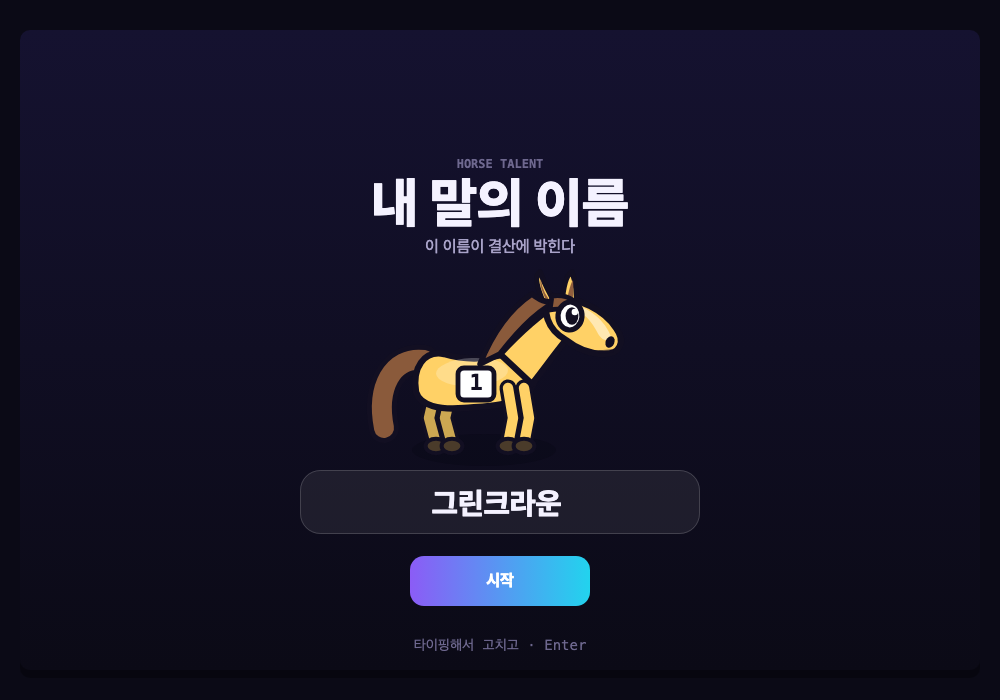
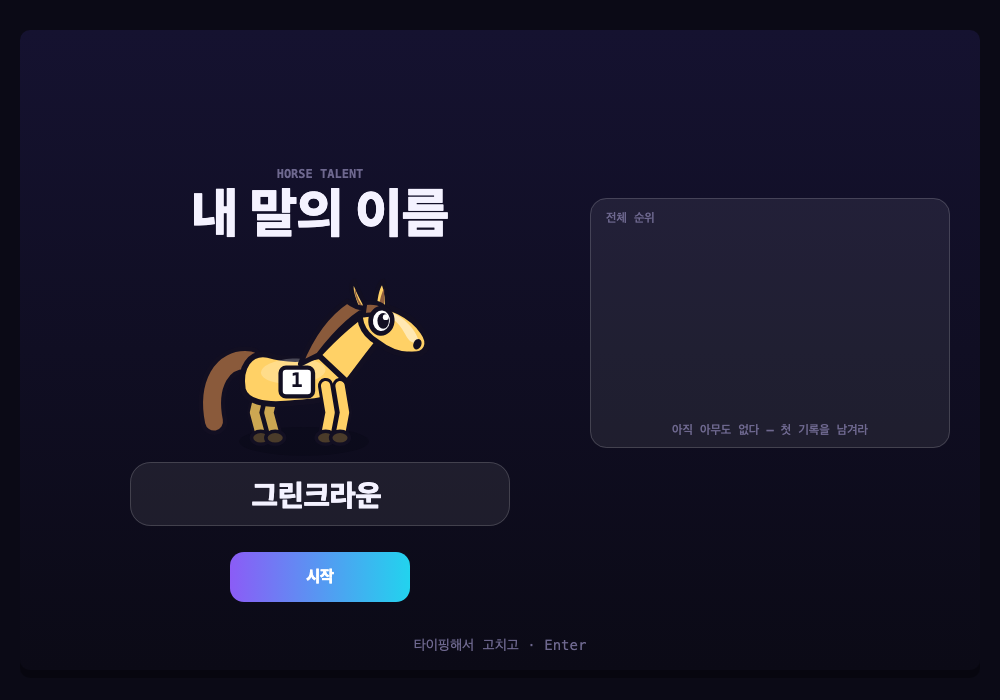
이름 화면 — 부제를 빼고 그 자리에 순위를 넣었다
"이 이름이 결산에 박힌다"는 아래 안내줄과 겹치는 말이었다.
그 자리를 순위가 쓰면 **시작 전에 무엇을 넘어야 하는지** 보인다.
결산처럼 두 단으로 — 왼쪽에 이름, 오른쪽에 순위.

랭킹 그리기는 좌표를 받게 빼서 두 화면이 같이 쓴다.

## 곁가지 — 서버에 못 닿았는데 "아직 아무도 없다"고 말했다

빈 목록과 못 받은 것을 **화면에서** 안 갈랐다. 전역에는 기록이 있을 수 있으니
거짓말이다 — `서버에 못 닿았다` 로 나눴다.
코드에서는 `null`/`[]` 로 갈라놓고 **문구에서 다시 뭉친** 셈이었다.
시작 전에는 `불러오는 중`, 판 끝에는 `기록 올리는 중` 으로도 갈랐다 —
올릴 것이 없는데 "올리는 중"은 틀린 말이다.

서버를 막고(`--host-resolver-rules`) 두 화면 다 확인했다.
배치 검사 3개 추가, 옛 좌표에서 깨지는 것도 확인했다. 검사 185개.

diff --git a/src/scenes/game.ts b/src/scenes/game.ts
@@ -25,7 +25,7 @@ import { C, F, MINE_COAT, RIVAL_COATS, font, mono, withAlpha, card, accentGrad }
 import { drawHorse, HORSE_BOX, type Mood } from "../ui/horse";
 import { rng } from "../kits/rng";
 import {
-  loadRuns, saveRun, submitRun, ranked, rankOf, isBest, SHOWN,
+  loadRuns, saveRun, submitRun, fetchBoard, ranked, rankOf, isBest, SHOWN,
   type Run, type Board,
 } from "../systems/records";
 
@@ -81,9 +81,19 @@ export const L = {
   slipTop: 400,
   slipH: 148,
   buyTop: 554,        // 걸고 출발 / 안 걸고 출발 — 나란히
-  /** 이름 화면 — 말 그림. 부제(222)와 이름 카드(440) 사이에 들어가야 한다 */
-  nameHorseY: 414,
-  nameHorseS: 2.0,
+  /**
+   * 이름 화면 — **두 단.** 왼쪽에 이름, 오른쪽에 순위.
+   * 부제("이 이름이 결산에 박힌다")를 빼고 그 자리를 순위가 쓴다.
+   */
+  nameColX: 300,
+  nameCardW: 380,
+  nameCardY: 432,
+  nameBtnY: 522,
+  nameRankX: 570,
+  nameRankTop: 168,
+  /** 말 그림. 제목(202)과 이름 카드 사이에 들어가야 한다 */
+  nameHorseY: 406,
+  nameHorseS: 1.8,
   /**
    * 트랙 — 결승선과 달려나갈 수 있는 오른쪽 끝.
    * `trackMaxX` 는 **착순 배지(폭 52)까지 화면 안에 들어오는** 지점이다.
@@ -202,6 +212,11 @@ export class Game {
     // **이름도 시드에서 나온다.** `Math.random()` 이었는데, 그러면 같은 시드로
     // 두 번 띄워도 다른 말이 나온다 — 증거 화면이 매번 달라져 재현이 안 됐다(HT-008).
     this.horse = newHorse(randomName(rng(seed ^ 0x5EED)));
+    // 이름 화면에도 순위를 띄운다 — **시작 전에 무엇을 넘어야 하는지** 보여준다.
+    // 못 받으면 로컬로 떨어진다. 판이 끝나면 `finishSession` 이 다시 채운다.
+    this.runs = loadRuns();
+    this.sending = true;
+    fetchBoard().then((b) => { this.board = b; }).finally(() => { this.sending = false; });
   }
 
   // ── 진행 ────────────────────────────────────────────────────────────────
@@ -498,21 +513,29 @@ export class Game {
     else if (this.phase === "recap") this.drawRecap(ctx);
   }
 
+  /**
+   * 이름 화면. **두 단이다** — 왼쪽에 이름을 짓고 오른쪽에 순위를 본다.
+   *
+   * "이 이름이 결산에 박힌다" 부제는 뺐다(사용자 요청). 아래 안내줄이 이미
+   * 무엇을 하는 화면인지 말하고, 그 자리를 순위가 쓴다 —
+   * **시작 전에 무엇을 넘어야 하는지 보이는 편이 낫다.**
+   */
   private drawName(ctx: CanvasRenderingContext2D) {
+    const cx = L.nameColX;
     ctx.textAlign = "center"; ctx.textBaseline = "alphabetic";
     ctx.font = mono(F.xs, 600); ctx.fillStyle = C.textFaint;
-    ctx.fillText("HORSE TALENT", W / 2, 138);
+    ctx.fillText("HORSE TALENT", cx, 148);
     ctx.font = font(F.hero, 800); ctx.fillStyle = C.text;
-    ctx.fillText("내 말의 이름", W / 2, 192);
-    ctx.font = font(F.md, 500); ctx.fillStyle = C.textMuted;
-    ctx.fillText("이 이름이 결산에 박힌다", W / 2, 222);
+    ctx.fillText("내 말의 이름", cx, 202);
     // **배율과 발 위치를 검사가 계산한다** — 눈으로 어림했더니 귀가 부제를 뚫었다.
-    drawHorse(ctx, W / 2 - 16, L.nameHorseY, L.nameHorseS, MINE_COAT, { mood: "idle", num: 1 });
-    card(ctx, W / 2 - 200, 440, 400, 64, { r: 20, fill: 0.07, border: 0.16 });
-    ctx.font = font(F.xxl, 800); ctx.fillStyle = C.text;
+    drawHorse(ctx, cx - 16, L.nameHorseY, L.nameHorseS, MINE_COAT, { mood: "idle", num: 1 });
+    card(ctx, cx - L.nameCardW / 2, L.nameCardY, L.nameCardW, 64, { r: 20, fill: 0.07, border: 0.16 });
+    ctx.textAlign = "center"; ctx.font = font(F.xxl, 800); ctx.fillStyle = C.text;
     const caret = Math.floor(this.t * 2) % 2 ? "|" : " ";
-    ctx.fillText(this.horse.name + caret, W / 2, 484);
-    this.btn(ctx, W / 2 - 90, 526, 180, 50, "시작", "startGame:", { primary: true });
+    ctx.fillText(this.horse.name + caret, cx, L.nameCardY + 44);
+    this.btn(ctx, cx - 90, L.nameBtnY, 180, 50, "시작", "startGame:", { primary: true });
+
+    this.drawRanking(ctx, L.nameRankX, L.nameRankTop);
     this.hint(ctx, "타이핑해서 고치고 · Enter");
   }
 
@@ -984,7 +1007,7 @@ export class Game {
       ctx.fillText(v, L.recapRowValX, y);
     });
 
-    this.drawRanking(ctx);
+    this.drawRanking(ctx, L.rankX, L.rankTop);
     this.hint(ctx, this.board
       ? "클릭 / Space 로 새 판 · 순위는 모두가 함께 본다"
       : "클릭 / Space 로 새 판 · 서버에 못 닿아 이 브라우저 기록만 보인다");
@@ -995,16 +1018,17 @@ export class Game {
    * 셋을 구별해서 말한다 — 보내는 중 / 전역 / 이 브라우저.
    * 뭉치면 로딩 중에 "기록 없음"이라고 거짓말하게 된다.
    */
-  private drawRanking(ctx: CanvasRenderingContext2D) {
-    const x = L.rankX, top = L.rankTop;
+  private drawRanking(ctx: CanvasRenderingContext2D, x: number, top: number) {
     card(ctx, x, top, L.rankW, L.rankH, { r: 16, fill: 0.07, border: 0.16 });
     ctx.textAlign = "left"; ctx.textBaseline = "alphabetic";
     ctx.font = mono(F.xs, 600); ctx.fillStyle = C.textFaint;
 
     const global = !!this.board;
-    ctx.fillText(this.sending ? "기록 올리는 중" : global ? "전체 순위" : "내 기록", x + 16, top + 24);
-
     const mine = this.run;
+    // 시작 전에는 올릴 것이 없다 — "불러오는 중" 과 "올리는 중" 은 다른 말이다
+    const busy = this.sending ? (mine ? "기록 올리는 중" : "불러오는 중") : null;
+    ctx.fillText(busy ?? (global ? "전체 순위" : "내 기록"), x + 16, top + 24);
+
     const list = global ? this.board!.runs.slice(0, SHOWN) : ranked(this.runs).slice(0, SHOWN);
     // 오른쪽 꼬리표 — 최고 기록 갱신이 첫 판보다 먼저다
     ctx.textAlign = "right";
@@ -1044,8 +1068,11 @@ export class Game {
     const rank = global ? this.board!.rank : (mine ? rankOf(this.runs, mine) : 0);
     const total = global ? this.board!.total : this.runs.length;
     ctx.textAlign = "center"; ctx.font = mono(F.xs, 600); ctx.fillStyle = C.textFaint;
+    // **빈 것과 못 받은 것을 다르게 말한다.** 서버에 못 닿았는데 "아직 아무도 없다"고
+    // 하면 거짓말이다 — 전역에는 기록이 있을 수 있다.
     const foot = this.sending ? "…"
-      : !mine ? ""
+      : !list.length ? (global ? "아직 아무도 없다 — 첫 기록을 남겨라" : "서버에 못 닿았다")
+      : !mine ? `${total}판${global ? "" : " · 이 브라우저"}`
       : rank > SHOWN ? `이번 판 ${rank}등 / ${total}판`
       : `${total}판 중${global ? "" : " · 이 브라우저"}`;
     if (foot) ctx.fillText(foot, x + L.rankW / 2, top + L.rankH - 14);

diff --git a/src/layout.test.ts b/src/layout.test.ts
@@ -224,13 +224,35 @@ describe("말 그림이 제자리에 든다", () => {
     left: x + HORSE_BOX.left * s, right: x + HORSE_BOX.right * s,
   });
 
-  it("이름 화면 — 부제와 이름 카드 사이에 든다", () => {
-    const h = box(W / 2 - 16, L.nameHorseY, L.nameHorseS);
-    const sub = textBand(222, F.md);          // "이 이름이 결산에 박힌다"
-    expect(h.top, "귀가 부제를 뚫는다").toBeGreaterThan(sub.bottom + 6);
-    expect(h.bottom, "발이 이름 카드에 닿는다").toBeLessThan(440 - 6);
-    expect(h.left).toBeGreaterThan(0);
-    expect(h.right).toBeLessThan(W);
+  /**
+   * 이름 화면은 **두 단**이다 — 왼쪽에 이름, 오른쪽에 순위.
+   * 부제("이 이름이 결산에 박힌다")를 빼고 그 자리를 순위가 쓴다(사용자 요청).
+   */
+  it("이름 화면 — 말이 제목과 이름 카드 사이에 들고 순위를 안 침범한다", () => {
+    const h = box(L.nameColX - 16, L.nameHorseY, L.nameHorseS);
+    const title = textBand(202, F.hero);      // "내 말의 이름"
+    expect(h.top, "귀가 제목을 뚫는다").toBeGreaterThan(title.bottom + 6);
+    expect(h.bottom, "발이 이름 카드에 닿는다").toBeLessThan(L.nameCardY - 6);
+    expect(h.left, "말이 화면 왼쪽 밖").toBeGreaterThan(0);
+    expect(h.right, "말이 순위 카드를 덮는다").toBeLessThan(L.nameRankX);
+  });
+
+  it("이름 화면 — 왼쪽 단과 순위 카드가 안 겹치고 화면 안에 든다", () => {
+    expect(L.nameColX + L.nameCardW / 2, "이름 카드가 순위를 덮는다")
+      .toBeLessThan(L.nameRankX - 12);
+    expect(L.nameColX - L.nameCardW / 2, "이름 카드가 화면 왼쪽 밖").toBeGreaterThan(0);
+    expect(L.nameRankX + L.rankW, "순위 카드가 화면 오른쪽 밖").toBeLessThanOrEqual(W - 20);
+    expect(L.nameRankTop + L.rankH, "순위 카드가 안내줄을 침범")
+      .toBeLessThan(textBand(L.hint, F.sm).top);
+  });
+
+  it("이름 화면 — 이름 카드·시작 버튼·안내줄이 세로로 안 겹친다", () => {
+    expect(checkStack([
+      { name: "제목", ...textBand(202, F.hero) },
+      { name: "이름 카드", top: L.nameCardY, bottom: L.nameCardY + 64 },
+      { name: "시작 버튼", top: L.nameBtnY, bottom: L.nameBtnY + 50 },
+      { name: "안내", ...textBand(L.hint, F.sm) },
+    ], H)).toEqual([]);
   });
 
   it("마방 — 내 말 카드 안에 여백을 두고 든다", () => {

diff --git a/evidence/REPORT.md b/evidence/REPORT.md
@@ -4,30 +4,27 @@
 
 | | 단계 | 명령 | 시간 |
 |---|---|---|---|
-| ✓ | 검사 | `npm test` | 44.6s |
-| ✓ | 빌드 | `npm run build` | 1.6s |
-| ✓ | 빌드 격리 | `node scripts/isolated.mjs` | 1.5s |
-| ✓ | 실측 | `npx vite-node src/evidence/measure.ts` | 68.0s |
-| ✓ | 라이선스 | `node scripts/licenses.mjs` | 0.0s |
-| ✓ | AI 사용 기록 | `node scripts/ai-use-log.mjs` | 0.0s |
-| ✓ | 화면 | `node scripts/shots.mjs` | 21.3s |
+| ✓ | 검사 | `npm test` | 36.8s |
+| ✓ | 빌드 | `npm run build` | 1.4s |
+| ✓ | 빌드 격리 | `node scripts/isolated.mjs` | 1.4s |
+| ✓ | 실측 | `npx vite-node src/evidence/measure.ts` | 53.0s |
+| ✓ | 라이선스 | `node scripts/licenses.mjs` | 0.1s |
+| ✓ | AI 사용 기록 | `node scripts/ai-use-log.mjs` | 0.1s |
+| ✓ | 화면 | `node scripts/shots.mjs` | 22.8s |
 
 
 ## 어느 소스에서 나왔나
 
 | | |
 |---|---|
-| 커밋 | `e49b4c7` |
+| 커밋 | `eef4543` |
 | 브랜치 | main |
-| 소스 트리 | **깨끗하지 않다 — 커밋 안 된 변경 6건**
+| 소스 트리 | **깨끗하지 않다 — 커밋 안 된 변경 3건**
 
 ```
-M docs/DECISIONS.md
- M docs/GAME_SPEC.md
- M src/records.test.ts
+M evidence/screens/1-name.png
+ M src/layout.test.ts
  M src/scenes/game.ts
- M src/systems/records.ts
-?? worker/
 ``` |
 | node | v24.18.0 |
 
@@ -35,7 +32,7 @@ M docs/DECISIONS.md
 
 | 파일 | SHA-256 (앞 16) | 크기 |
 |---|---|---|
-| `index-yxvXVscy.js` | `0b9b9842d0e2ce29` | 42.1 kB |
+| `index-KJjzTzcQ.js` | `80061f57843443d1` | 42.6 kB |
 
 ## 같이 있는 것
 
@@ -48,12 +45,12 @@ M docs/DECISIONS.md
 ### 검사
 
 ```
- ✓ src/balance.test.ts  (18 tests) 37818ms
+ ✓ src/balance.test.ts  (18 tests) 31065ms
 
  Test Files  9 passed (9)
-      Tests  183 passed (183)
-   Start at  15:05:16
-   Duration  43.97s (transform 648ms, setup 0ms, collect 21.20s, tests 74.15s, environment 1ms, prepare 904ms)
+      Tests  185 passed (185)
+   Start at  15:32:22
+   Duration  36.35s (transform 719ms, setup 0ms, collect 16.99s, tests 60.95s, environment 2ms, prepare 1.18s)
 ```
 
 ### 빌드
@@ -62,9 +59,9 @@ M docs/DECISIONS.md
 ✓ 13 modules transformed.
 rendering chunks...
 computing gzip size...
-dist/index.html                 0.66 kB │ gzip:  0.41 kB
-dist/assets/index-yxvXVscy.js  41.39 kB │ gzip: 16.02 kB
-✓ built in 185ms
+dist/index.html                 0.66 kB │ gzip:  0.42 kB
+dist/assets/index-KJjzTzcQ.js  41.82 kB │ gzip: 16.21 kB
+✓ built in 153ms
 ```
 
 ### 빌드 격리

diff --git a/docs/DECISIONS.md b/docs/DECISIONS.md
@@ -124,4 +124,8 @@
 | 08-07 | **등수는 서버가 센다** | 클라이언트가 상위 20개만 받아 세면 그 밖의 등수를 모른다. `COUNT(*) WHERE gold > ? OR (gold = ? AND created_at < ?)` 로 서버가 세서 돌려준다 | worker/worker.js |
 | 08-07 | 위조 방어는 **장난 거르는 수준까지만** | 값의 모양·범위(음수·NaN·상한 1,000만) · 이름 길이와 제어문자 · IP 해시 속도 제한(1분 5회). **작정하면 뚫린다** — 진짜로 막으려면 서버가 경주를 다시 돌려야 하고 그건 게임 로직을 서버에 올리는 일이다. 혼자 하는 게임의 순위표에 그만한 공사를 안 한다 | worker/worker.js |
 | 08-07 | **IP 원본을 안 남긴다** — 소금 친 해시 앞 8바이트만 | 속도 제한에 필요한 건 "같은 곳인가"뿐이다. 밖으로 나가는 것은 말 이름·골드·경주 수·최고 배당뿐 | worker/schema.sql |
+| 08-07 | **이름 화면에서 부제를 빼고 그 자리에 순위를 넣었다** (사용자 요청) | "이 이름이 결산에 박힌다"는 아래 안내줄과 겹치는 말이었다. 그 자리를 순위가 쓰면 **시작 전에 무엇을 넘어야 하는지** 보인다. 이름 화면도 결산처럼 두 단으로 — 왼쪽에 이름, 오른쪽에 순위 | src/scenes/game.ts |
+| 08-07 | 랭킹 그리기를 좌표 받는 형태로 빼서 **두 화면이 같이 쓴다** | 복사하면 한쪽만 고치는 날이 온다 | src/scenes/game.ts `drawRanking` |
+| 08-07 | (버그) 서버에 못 닿았는데 **"아직 아무도 없다"고 말했다** | 빈 목록과 못 받은 것을 화면에서 안 갈랐다. 전역에는 기록이 있을 수 있으니 거짓말이다 — `서버에 못 닿았다` 로 나눴다. 코드에서는 `null`/`[]` 로 갈라놨는데 **문구에서 다시 뭉쳤다** | src/scenes/game.ts |
+| 08-07 | 시작 전에는 `불러오는 중`, 판 끝에는 `기록 올리는 중` | 올릴 것이 없는데 "올리는 중"이라고 하면 틀린 말이다 | src/scenes/game.ts |
 

diff --git a/docs/GAME_SPEC.md b/docs/GAME_SPEC.md
@@ -231,7 +231,8 @@ M1 의 "판돈 ∝ 실력^6.0" 은 **땜질이었다.** 단승 EV 를 억지로 
 | 기준 | 최종 골드. **동점이면 먼저 세운 기록이 위**다 |
 | 전역 | Cloudflare Workers + D1 — `worker/`. 주소는 `horse-talent-rank.ycyeom.workers.dev` |
 | 로컬 | `localStorage` 최근 20판. **서버에 못 닿으면 여기로 떨어진다** |
-| 표시 | 셋을 구별한다 — `기록 올리는 중` / `전체 순위` / `내 기록` |
+| 표시 | 셋을 구별한다 — `불러오는 중`·`기록 올리는 중` / `전체 순위` / `내 기록` |
+| 어디에 | **이름 화면과 결산 둘 다.** 시작 전에 무엇을 넘어야 하는지 보인다 |
 
 동점을 먼저 세운 쪽에 주는 이유는 그러지 않으면 나중 판이 동점으로 앞질러
 "방금 최고 기록을 깼다"가 거짓이 되기 때문이다.
